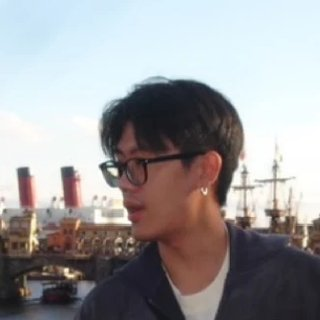
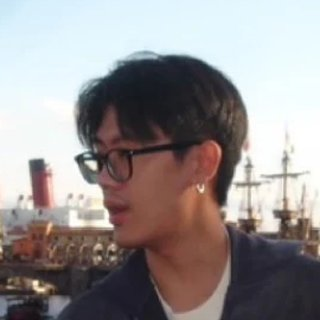
fix(heroes): 真人照片填滿頭貼圓框、Trend Rider 照片置中、個人頁與跟單頁頭貼放大
- 頭貼原本一律 objectFit: contain 加內距（為 Pepe 去背插圖設計），套在照片上變成縮小、四周露底色。
  traderAvatarImgSx：照片 cover、不留內距；Pepe 插圖照舊
- Trend Rider 的照片以臉為中心重新裁切
- 交易者個人頁與跟單頁上方的頭貼 80px → 手機 96px、桌機 120px

diff --git a/frontend/src/pages/pepefi/CopyPage.tsx b/frontend/src/pages/pepefi/CopyPage.tsx
@@ -20,7 +20,7 @@ import { firstBlocking, stalenessNotice } from 'src/lib/pepefi/priceFreshness'
 import CarbonTierMixCard from 'src/components/pepefi/CarbonTierMixCard'
 import HiddenTraderNotice from 'src/components/pepefi/HiddenTraderNotice'
 import KYCModal from 'src/components/pepefi/KYCModal'
-import { traderAvatarSrc } from 'src/utils/pepefi-assets'
+import { traderAvatarSrc, traderAvatarImgSx } from 'src/utils/pepefi-assets'
 import TraderRankBadge from 'src/components/pepefi/TraderRankBadge'
 import { useToast } from 'src/components/pepefi/ToastProvider'
 import { belowMinimum, minimumCopyAmount } from 'src/lib/pepefi/copyGuards'
@@ -510,16 +510,14 @@ function CopyPageView() {
           <Avatar
             src={traderAvatarSrc(stakeData ? stakeData.reputation : null, traderAddress, traderName)}
             sx={{
-              width: 80,
-              height: 80,
+              width: { xs: 96, md: 120 },
+              height: { xs: 96, md: 120 },
+              flexShrink: 0,
               border: '3px solid',
               borderColor: stakeData && stakeData.reputation >= 80n ? 'warning.main' : 'rgba(255,255,255,0.1)',
               boxShadow: '0 0 16px rgba(0,0,0,0.5)',
               bgcolor: 'rgba(255, 255, 255, 0.05)',
-              '& .MuiAvatar-img': {
-                objectFit: 'contain',
-                padding: '4px',
-              }
+              '& .MuiAvatar-img': traderAvatarImgSx(traderName, '4px'),
             }}
           />
           <Box sx={{ flexGrow: 1 }}>

diff --git a/frontend/src/pages/pepefi/TraderProfilePage.tsx b/frontend/src/pages/pepefi/TraderProfilePage.tsx
@@ -7,7 +7,7 @@ import { usePepefiWallet } from 'src/layouts/pepefi'
 import { TableSkeleton, CardSkeleton } from 'src/components/pepefi/Skeleton'
 import { ASSET_LABEL } from 'src/lib/pepefi/assetMeta'
 import StatCard from 'src/components/pepefi/StatCard'
-import { traderAvatarSrc } from 'src/utils/pepefi-assets'
+import { traderAvatarSrc, traderAvatarImgSx } from 'src/utils/pepefi-assets'
 import TraderRankBadge from 'src/components/pepefi/TraderRankBadge'
 import { TraderActivityLive } from 'src/components/pepefi/TraderActivity'
 import DeferredSection from 'src/components/pepefi/DeferredSection'
@@ -364,16 +364,14 @@ function TraderProfileView() {
               <Avatar
                 src={traderAvatarSrc(repScore, traderAddr, name)}
                 sx={{
-                  width: 80,
-                  height: 80,
+                  width: { xs: 96, md: 120 },
+                  height: { xs: 96, md: 120 },
+                  flexShrink: 0,
                   border: '3px solid',
                   borderColor: repScore && repScore >= 80n ? 'warning.main' : 'rgba(255,255,255,0.1)',
                   boxShadow: '0 0 16px rgba(0,0,0,0.5)',
                   bgcolor: 'rgba(255, 255, 255, 0.05)',
-                  '& .MuiAvatar-img': {
-                    objectFit: 'contain',
-                    padding: '4px',
-                  }
+                  '& .MuiAvatar-img': traderAvatarImgSx(name, '4px'),
                 }}
               />
               <Box sx={{ flexGrow: 1 }}>

diff --git a/frontend/src/utils/heroPhotos.test.ts b/frontend/src/utils/heroPhotos.test.ts
@@ -2,7 +2,7 @@ import { join } from 'node:path';
 import { it, expect, describe } from 'vitest';
 import { existsSync, readFileSync } from 'node:fs';
 
-import { HERO_PHOTOS, heroPhotoFor, traderAvatarSrc } from './pepefi-assets';
+import { HERO_PHOTOS, heroPhotoFor, traderAvatarSrc, traderAvatarImgSx } from './pepefi-assets';
 
 // 英雄榜的真人照片以交易者名稱對應。名稱或檔案一改，對應就會靜靜地失效（退回 Pepe 圖），
 // 所以這裡把兩邊都釘住：每個名稱都要出現在兩條鏈的模擬交易者資料裡，每張照片都要真的存在。
@@ -31,5 +31,11 @@ describe('英雄榜真人照片', () => {
     expect(heroPhotoFor('Crypto Degen')).toBeUndefined();
     expect(heroPhotoFor(undefined)).toBeUndefined();
     expect(traderAvatarSrc(80, '0xabc', 'Crypto Degen')).toBe(traderAvatarSrc(80, '0xabc'));
+  });
+
+  it('照片填滿圓框、不留內距；Pepe 插圖照舊整張放進去並留內距', () => {
+    expect(traderAvatarImgSx('Trend Rider', '4px')).toEqual({ objectFit: 'cover', padding: 0 });
+    expect(traderAvatarImgSx('Crypto Degen', '4px')).toEqual({ objectFit: 'contain', padding: '4px' });
+    expect(traderAvatarImgSx(undefined, '2px')).toEqual({ objectFit: 'contain', padding: '2px' });
   });
 });

diff --git a/frontend/src/components/pepefi/TraderLeaderboard.tsx b/frontend/src/components/pepefi/TraderLeaderboard.tsx
@@ -19,7 +19,7 @@ import { isHiddenTrader } from 'src/lib/pepefi/hiddenTraders';
 import AllocationRow from 'src/components/pepefi/AllocationRow';
 import Podium from 'src/components/pepefi/Podium';
 import ScoreBreakdownPopover from 'src/components/pepefi/ScoreBreakdownPopover';
-import { traderAvatarSrc } from 'src/utils/pepefi-assets';
+import { traderAvatarSrc, traderAvatarImgSx } from 'src/utils/pepefi-assets';
 import { t, interpolate } from 'src/locales';
 import { heroDisclosure } from 'src/lib/pepefi/heroDisclosure';
 import {
@@ -691,7 +691,7 @@ export default function TraderLeaderboard() {
                               border: '1px solid',
                               borderColor: trader.reputation && trader.reputation >= 80n ? 'warning.main' : 'rgba(255,255,255,0.1)',
                               bgcolor: 'rgba(255, 255, 255, 0.05)',
-                              '& .MuiAvatar-img': { objectFit: 'contain', padding: '2px' },
+                              '& .MuiAvatar-img': traderAvatarImgSx(trader.displayName, '2px'),
                             }}
                           />
                           {/* 名稱、地址各自獨立一行。聲譽徽章拿掉了：TraderScore 欄已經把聲譽算進去，

diff --git a/frontend/src/utils/pepefi-assets.ts b/frontend/src/utils/pepefi-assets.ts
@@ -81,6 +81,13 @@ export const heroPhotoFor = (name: string | null | undefined): string | undefine
  * 回 undefined，MUI Avatar 會退回中性的人像圖示。頁面一律用這個，不要直接呼叫 getPepeAvatar。
  * 有 `name` 而且是 HERO_PHOTOS 裡的模擬交易者時用照片，其餘照舊依位址與信譽挑 Pepe 圖。
  */
+/**
+ * 頭貼圖片在圓框裡怎麼擺。Pepe 插圖是去背的全身圖：整張放進去（contain）再留一點內距，
+ * 才不會切到帽子或腳。照片相反：填滿圓框（cover）、不留內距，否則四周會露出一圈底色、臉變小。
+ */
+export const traderAvatarImgSx = (name: string | null | undefined, padding: string) =>
+  heroPhotoFor(name) ? { objectFit: 'cover' as const, padding: 0 } : { objectFit: 'contain' as const, padding };
+
 export const traderAvatarSrc = (
   reputation: number | bigint | null,
   address: string,

diff --git a/frontend/src/components/pepefi/Podium.tsx b/frontend/src/components/pepefi/Podium.tsx
@@ -11,7 +11,7 @@ import Typography from '@mui/material/Typography';
 
 import { t } from 'src/locales';
 import { MONO, shortAddr } from 'src/components/pepefi/brandKit';
-import { traderAvatarSrc } from 'src/utils/pepefi-assets';
+import { traderAvatarSrc, traderAvatarImgSx } from 'src/utils/pepefi-assets';
 import AllocationRow from 'src/components/pepefi/AllocationRow';
 import { scoreChipColor, fPnL, fWinRate, fReturnPct, type TraderCard } from 'src/lib/pepefi/leaderboardMetrics';
 
@@ -125,7 +125,7 @@ export default function Podium({
               border: '1px solid',
               borderColor: MEDAL_BORDER[rank - 1],
               bgcolor: 'rgba(255, 255, 255, 0.05)',
-              '& .MuiAvatar-img': { objectFit: 'contain', padding: '2px' },
+              '& .MuiAvatar-img': traderAvatarImgSx(trader.displayName, '2px'),
             }}
           />
           <Box sx={{ minWidth: 0 }}>
